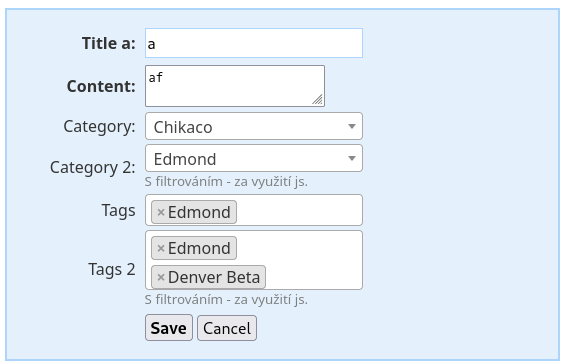
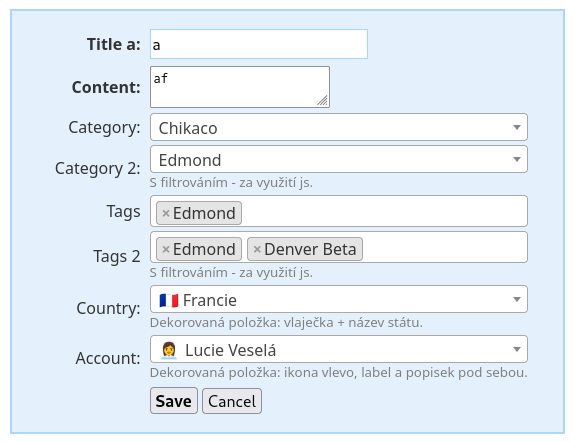
add: Možnost dekorovat prvky
Chceme například input, který bude
- obsahovat vlaječku a jméno státu - přidej s ukázky input addSelectRemote("countries", ...).
- obsahovat ikonku na levo, a label, description pod sebou - přidej s ukázky input addSelectRemote("accounts", ...).
- Na straně PHP to budeme řešit tak, že jako to bude vracet další prvky, které si renderer může převzít.

diff --git a/assets/remoteselect2.ts b/assets/remoteselect2.ts
@@ -9,6 +9,8 @@ const PAGE_SIZE = 10;
 export interface RemoteSelectItem {
 	id: string;
 	label: string;
+	/** Extra decoration fields (e.g. `flag`, `icon`, `description`) picked up by custom renderers. */
+	[key: string]: unknown;
 }
 
 export interface RemoteSelectResponse {
@@ -37,7 +39,7 @@ export interface Select2Options {
 		delay: number;
 		data: (params: Select2Params) => { term?: string; page?: number };
 		processResults: (data: RemoteSelectResponse, params: Select2Params) => {
-			results: Array<{ id: string; text: string }>;
+			results: Array<RemoteSelectItem & { text: string }>;
 			pagination: { more: boolean };
 		};
 	};
@@ -77,7 +79,7 @@ export function initSelect2Impl(el: Element, overrides: Select2Options = {}): vo
 			processResults: (data, params) => {
 				params.page = params.page || 1;
 				return {
-					results: data.items.map((x) => ({ id: x.id, text: x.label })),
+					results: data.items.map((x) => ({ ...x, id: x.id, text: x.label })),
 					pagination: {
 						more: params.page * PAGE_SIZE < data.total,
 					},

diff --git a/assets/remoteselect2.js b/assets/remoteselect2.js
@@ -33,7 +33,7 @@ export function initSelect2Impl(el, overrides = {}) {
             processResults: (data, params) => {
                 params.page = params.page || 1;
                 return {
-                    results: data.items.map((x) => ({ id: x.id, text: x.label })),
+                    results: data.items.map((x) => ({ ...x, id: x.id, text: x.label })),
                     pagination: {
                         more: params.page * PAGE_SIZE < data.total,
                     },

diff --git a/assets/TomSelectAdapter.ts b/assets/TomSelectAdapter.ts
@@ -7,6 +7,8 @@
 interface RemoteSelectItem {
 	id: string;
 	label: string;
+	/** Extra decoration fields (e.g. `flag`, `icon`, `description`) picked up by custom renderers. */
+	[key: string]: unknown;
 }
 
 interface RemoteSelectResponse {

diff --git a/examples/app/presenters/DashboardPresenter.php b/examples/app/presenters/DashboardPresenter.php
@@ -34,6 +34,14 @@ class DashboardPresenter extends BasePresenter
 			->setOption('description', 'S filtrováním - za využití js.')
 			->controlPrototype->data('class', 'filterable');
 
+		$form->addSelectRemote('countries', 'Country:', $this->getCountrySelectModel())
+			->setOption('description', 'Dekorovaná položka: vlaječka + název státu.')
+			->controlPrototype->data('class', 'filterable');
+
+		$form->addSelectRemote('accounts', 'Account:', $this->getAccountSelectModel())
+			->setOption('description', 'Dekorovaná položka: ikona vlevo, label a popisek pod sebou.')
+			->controlPrototype->data('class', 'filterable');
+
 		$form->setCurrentGroup(NULL);
 		$form->addSubmit('submit', 'Save')
 			->setAttribute('class', 'default');
@@ -117,10 +125,129 @@ class DashboardPresenter extends BasePresenter
 
 
 
+	private function getCountrySelectModel()
+	{
+		$data = self::getCountryData();
+
+		// Items carry an extra "flag" field on top of id/label, picked up by the JS renderer.
+		return new CallbackQueryModel(static function($term, $page, $pageSize) use ($data) {
+			$results = [];
+			foreach ($data as $x) {
+				if ($term && stripos($x->label, $term) === False) {
+					continue;
+				}
+				$results[] = (object) [
+					'id' => $x->id,
+					'label' => $x->label,
+					'flag' => $x->flag,
+				];
+			}
+			$total = count($results);
+			$offset = ($page - 1) * $pageSize;
+			return (object) [
+				'total' => $total,
+				'items' => array_slice($results, $offset, $pageSize),
+			];
+		}, static function($id) use ($data) {
+			foreach ($data as $x) {
+				if ($x->id === $id) {
+					return (array) $x;
+				}
+			}
+			return NULL;
+		});
+	}
+
+
+
+	private function getAccountSelectModel()
+	{
+		$data = self::getAccountData();
+
+		// Items carry extra "icon" and "description" fields on top of id/label.
+		return new CallbackQueryModel(static function($term, $page, $pageSize) use ($data) {
+			$results = [];
+			foreach ($data as $x) {
+				if ($term && stripos($x->label, $term) === False) {
+					continue;
+				}
+				$results[] = (object) [
+					'id' => $x->id,
+					'label' => $x->label,
+					'icon' => $x->icon,
+					'description' => $x->description,
+				];
+			}
+			$total = count($results);
+			$offset = ($page - 1) * $pageSize;
+			return (object) [
+				'total' => $total,
+				'items' => array_slice($results, $offset, $pageSize),
+			];
+		}, static function($id) use ($data) {
+			foreach ($data as $x) {
+				if ($x->id === $id) {
+					return (array) $x;
+				}
+			}
+			return NULL;
+		});
+	}
+
+
+
+	private static function getCountryData()
+	{
+		return [
+			(object)['id' => 'cz', 'label' => 'Česká republika', 'flag' => '🇨🇿'],
+			(object)['id' => 'sk', 'label' => 'Slovensko', 'flag' => '🇸🇰'],
+			(object)['id' => 'de', 'label' => 'Německo', 'flag' => '🇩🇪'],
+			(object)['id' => 'at', 'label' => 'Rakousko', 'flag' => '🇦🇹'],
+			(object)['id' => 'pl', 'label' => 'Polsko', 'flag' => '🇵🇱'],
+			(object)['id' => 'fr', 'label' => 'Francie', 'flag' => '🇫🇷'],
+			(object)['id' => 'es', 'label' => 'Španělsko', 'flag' => '🇪🇸'],
+			(object)['id' => 'it', 'label' => 'Itálie', 'flag' => '🇮🇹'],
+			(object)['id' => 'pt', 'label' => 'Portugalsko', 'flag' => '🇵🇹'],
+			(object)['id' => 'nl', 'label' => 'Nizozemsko', 'flag' => '🇳🇱'],
+			(object)['id' => 'be', 'label' => 'Belgie', 'flag' => '🇧🇪'],
+			(object)['id' => 'ch', 'label' => 'Švýcarsko', 'flag' => '🇨🇭'],
+			(object)['id' => 'se', 'label' => 'Švédsko', 'flag' => '🇸🇪'],
+			(object)['id' => 'no', 'label' => 'Norsko', 'flag' => '🇳🇴'],
+			(object)['id' => 'dk', 'label' => 'Dánsko', 'flag' => '🇩🇰'],
+			(object)['id' => 'fi', 'label' => 'Finsko', 'flag' => '🇫🇮'],
+			(object)['id' => 'us', 'label' => 'Spojené státy', 'flag' => '🇺🇸'],
+			(object)['id' => 'gb', 'label' => 'Velká Británie', 'flag' => '🇬🇧'],
+			(object)['id' => 'jp', 'label' => 'Japonsko', 'flag' => '🇯🇵'],
+			(object)['id' => 'cn', 'label' => 'Čína', 'flag' => '🇨🇳'],
+		];
+	}
+
+
+
+	private static function getAccountData()
+	{
+		return [
+			(object)['id' => 'u1', 'label' => 'Martin Takáč', 'icon' => '👤', 'description' => 'Administrátor'],
+			(object)['id' => 'u2', 'label' => 'Jana Nováková', 'icon' => '👩', 'description' => 'Účetní'],
+			(object)['id' => 'u3', 'label' => 'Petr Svoboda', 'icon' => '👨', 'description' => 'Obchodní zástupce'],
+			(object)['id' => 'u4', 'label' => 'Lucie Veselá', 'icon' => '👩💼', 'description' => 'Marketing'],
+			(object)['id' => 'u5', 'label' => 'Tomáš Dvořák', 'icon' => '👨💻', 'description' => 'Vývojář'],
+			(object)['id' => 'u6', 'label' => 'Eva Procházková', 'icon' => '👩💻', 'description' => 'Vývojářka'],
+			(object)['id' => 'u7', 'label' => 'Jan Černý', 'icon' => '👨🔧', 'description' => 'Podpora'],
+			(object)['id' => 'u8', 'label' => 'Marie Horáková', 'icon' => '👩🔧', 'description' => 'Podpora'],
+			(object)['id' => 'u9', 'label' => 'David Kovář', 'icon' => '👨💼', 'description' => 'Obchodní zástupce'],
+			(object)['id' => 'u10', 'label' => 'Klára Pokorná', 'icon' => '👩🎓', 'description' => 'HR'],
+			(object)['id' => 'u11', 'label' => 'Filip Marek', 'icon' => '👨🎓', 'description' => 'HR'],
+			(object)['id' => 'u12', 'label' => 'Tereza Bartošová', 'icon' => '👩⚖', 'description' => 'Právní oddělení'],
+		];
+	}
+
+
+
 	/**
 	 * @return array<\stdClass>
 	 */
-	private static function getData(): array
+	private static function getData()
 	{
 		return [
 			(object)['id' => 'a1', 'label' => 'Alaska'],

diff --git a/libs/CallbackQueryModel.php b/libs/CallbackQueryModel.php
@@ -24,13 +24,13 @@ class CallbackQueryModel implements QueryModel
 	private $dataquery;
 
 	/**
-	 * @var callable(string|int): (array{id: string, label: string}|null)
+	 * @var callable(string|int): (array{id: string, label: string, ...}|null)
 	 */
 	private $dataread;
 
 	/**
 	 * @param callable(string, int, int): \stdClass $dataquery
-	 * @param callable(string|int): (array{id: string, label: string}|null) $dataread
+	 * @param callable(string|int): (array{id: string, label: string, ...}|null) $dataread
 	 */
 	function __construct(callable $dataquery, callable $dataread)
 	{
@@ -41,8 +41,10 @@ class CallbackQueryModel implements QueryModel
 
 
 	/**
+	 * Items may carry arbitrary extra fields besides id/label (e.g. flag, icon,
+	 * description) for the JS renderer to pick up.
 	 * @param array<string, mixed> $args
-	 * @return \stdClass {total: int, items: array<array{id: string, label: string}>}
+	 * @return \stdClass {total: int, items: array<array{id: string, label: string, ...}>}
 	 */
 	function range(string $term, int $page, int $pageSize, array $args = []): stdClass
 	{
@@ -55,7 +57,7 @@ class CallbackQueryModel implements QueryModel
 	/**
 	 * One for setDefaults();
 	 * @param string|int $id
-	 * @return array{id: string, label: string}|null
+	 * @return array{id: string, label: string, ...}|null
 	 */
 	function read($id): ?array
 	{

diff --git a/libs/QueryModel.php b/libs/QueryModel.php
@@ -14,8 +14,11 @@ interface QueryModel
 {
 
 	/**
+	 * Items may carry arbitrary extra fields besides id/label (e.g. flag, icon,
+	 * description) for the JS renderer to pick up — see assets/remoteselect2.ts
+	 * and assets/TomSelectAdapter.ts.
 	 * @param array<string, mixed> $args
-	 * @return \stdClass {total: int, items: array<array{id: string, label: string}>}
+	 * @return \stdClass {total: int, items: array<array{id: string, label: string, ...}>}
 	 */
 	function range(string $term, int $page, int $pageSize, array $args = []);
 
@@ -23,7 +26,7 @@ interface QueryModel
 
 	/**
 	 * @param string|int $id
-	 * @return array{id: string, label: string}|null
+	 * @return array{id: string, label: string, ...}|null
 	 */
 	function read($id);
 

diff --git a/README.md b/README.md
@@ -107,6 +107,30 @@ document.querySelectorAll('select').forEach((el) => {
 For TomSelect, `plugins` from the overrides are merged with `virtual_scroll`, which cannot be
 disabled — without it, pagination over AJAX would not be available.
 
+#### Decorating items
+
+The model can return arbitrary extra fields per item on top of `id`/`label` (e.g. `flag`, `icon`,
+`description`) — the library passes them through unchanged all the way to the JS layer. Rendering
+them (an icon, a flag, a description under the label, ...) is then up to your own template
+callback, enabled through the same `overrides` parameter:
+
+```js
+// Select2: templateResult/templateSelection receive the whole item object.
+initSelect2Impl(el, {
+	templateResult: (data) => `${data.flag ?? ''} ${data.label}`,
+});
+
+// TomSelect: render.option/render.item receive the item object and an escape() helper.
+initTomSelectImpl(el, {
+	render: { option: (data, escape) => `<div>${escape(data.flag ?? '')} ${escape(data.label)}</div>` },
+});
+```
+
+The example application demonstrates this on the `countries` field (flag + country name) and the
+`accounts` field (icon on the left, label and description stacked below it) — see
+`DashboardPresenter::getCountrySelectModel()` / `getAccountSelectModel()` and the corresponding
+`<script type="module">` in `select2.latte` / `tomselect.latte`.
+
 
 ### Usage in PHP
 

diff --git a/README.cs.md b/README.cs.md
@@ -102,6 +102,29 @@ document.querySelectorAll('select').forEach((el) => {
 U TomSelect jsou `plugins` z overrides slučovány s `virtual_scroll`, který nelze vypnout — bez
 něj by stránkování přes AJAX nebylo k dispozici.
 
+#### Dekorace prvků
+
+Model může u každé položky vracet libovolná další pole nad `id`/`label` (např. `flag`, `icon`,
+`description`) — knihovna je beze změny propustí až do JS vrstvy. Jejich vykreslení (ikona,
+vlaječka, popisek pod labelem, ...) je pak na vlastním šablonovacím callbacku, který se zapíná
+přes stejný `overrides` parametr:
+
+```js
+// Select2: templateResult/templateSelection dostanou celý objekt položky.
+initSelect2Impl(el, {
+	templateResult: (data) => `${data.flag ?? ''} ${data.label}`,
+});
+
+// TomSelect: render.option/render.item dostanou objekt položky a escape() helper.
+initTomSelectImpl(el, {
+	render: { option: (data, escape) => `<div>${escape(data.flag ?? '')} ${escape(data.label)}</div>` },
+});
+```
+
+Ukázková aplikace to demonstruje na polích `countries` (vlaječka + název státu) a `accounts`
+(ikona vlevo, label a popisek pod sebou) — viz `DashboardPresenter::getCountrySelectModel()` /
+`getAccountSelectModel()` a odpovídající `<script type="module">` v `select2.latte` / `tomselect.latte`.
+
 
 
 ### Použití v PHP
